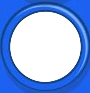
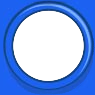
Modify board design

Changed region(s): [[0.0, 0.129, 1.0, 1.0], [0.2667, 0.0, 0.8222, 0.2581], [0.2667, 0.1075, 0.2889, 0.129]]

diff --git a/src/components/Board/index.js b/src/components/Board/index.js
@@ -47,8 +47,7 @@ export default function Board({player, updatePlayer, updateWinner}) {
 
   const renderSquares = () => boardState.map((row, i) => row.map((square, j) => {
     const isWinningSquare = winningLine.some((coord) => coord[0] === i && coord[1] === j);
-    const isCorner = (i === 0 && (j === 0 || j === row.length - 1)) || (i === boardState.length - 1 && (j === 0 || j === row.length - 1));
-    return <Square key={`${i}-${j}`} winning={isWinningSquare} row={i} col={j} state={boardState[i][j]} corner={isCorner} />;
+    return <Square key={`${i}-${j}`} winning={isWinningSquare} row={i} col={j} state={boardState[i][j]} />;
   }));
 
   return (

diff --git a/src/components/Square/index.js b/src/components/Square/index.js
@@ -1,7 +1,7 @@
 import React from 'react';
 import './index.css';
 
-export default function Square({row, col, state, winning, corner}) {
+export default function Square({row, col, state, winning}) {
   const renderToken = () => {
     if (state) {
       const classes = `Token Token--p${state}`;
@@ -11,9 +11,5 @@ export default function Square({row, col, state, winning, corner}) {
   }
 
   let classes = `Square${winning ? ' Square--winning' : ''}`
-  if (corner) {
-    classes += ' Square--corner';
-    return <span className={classes}>{renderToken()}</span>;
-  }
   return <div className={classes}>{renderToken()}</div>;
 }

diff --git a/src/components/Square/index.css b/src/components/Square/index.css
@@ -10,22 +10,6 @@
   font-size: 0;
 }
 
-.Square--corner:first-of-type {
-  border-top-left-radius: 16px;
-}
-
-.Square--corner:nth-of-type(2) {
-  border-top-right-radius: 16px;
-}
-
-.Square--corner:nth-of-type(3) {
-  border-bottom-left-radius: 16px;
-}
-
-.Square--corner:last-of-type {
-  border-bottom-right-radius: 16px;
-}
-
 @keyframes highlight {
   0%   { background-color: rgba(255, 255, 255, 0) }
   50%  { background-color: rgba(255, 255, 255, 0.5) }

diff --git a/src/components/Board/index.css b/src/components/Board/index.css
@@ -1,6 +1,13 @@
 .Droppers, .Board {
   display: grid;
   grid-template-columns: repeat(7, 1fr);
+  border: 4px solid transparent;
+}
+
+.Board {
+  border-color: #2861f1;
+  border-radius: 16px;
+  box-shadow: 0 6px 16px 0 rgba(31, 36, 38, 0.15)
 }
 
 .Droppers {
